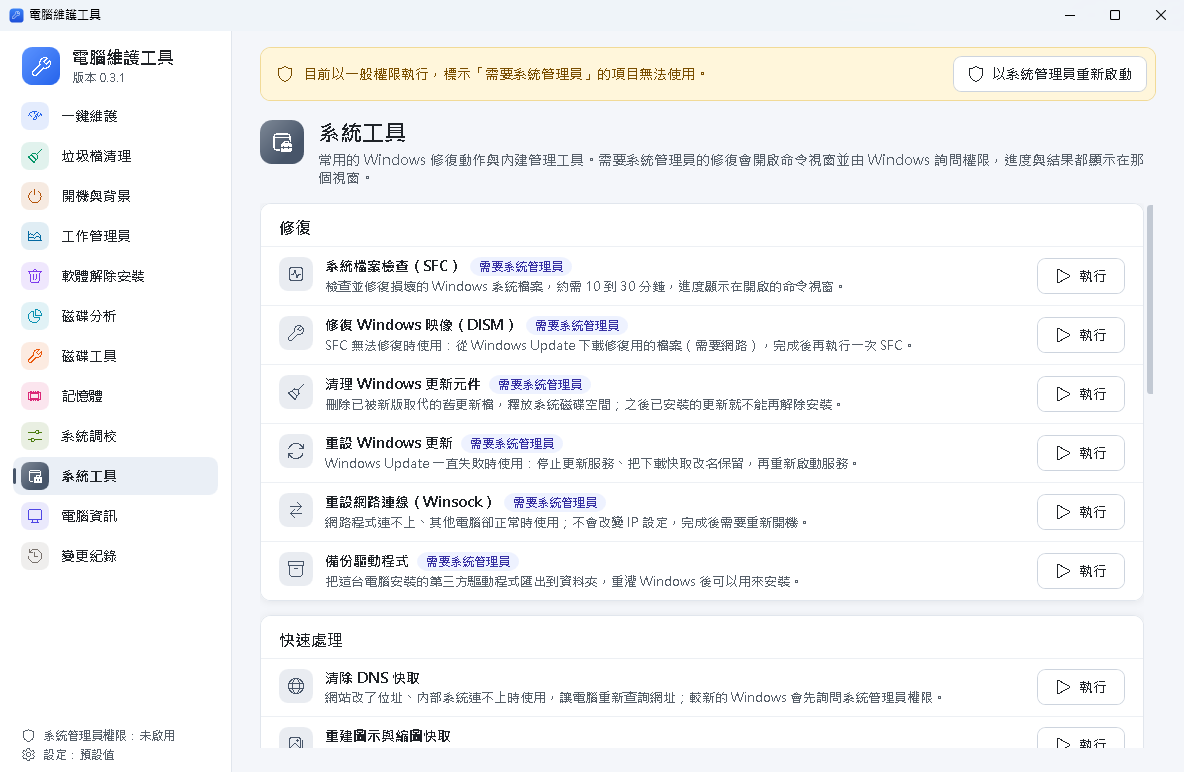
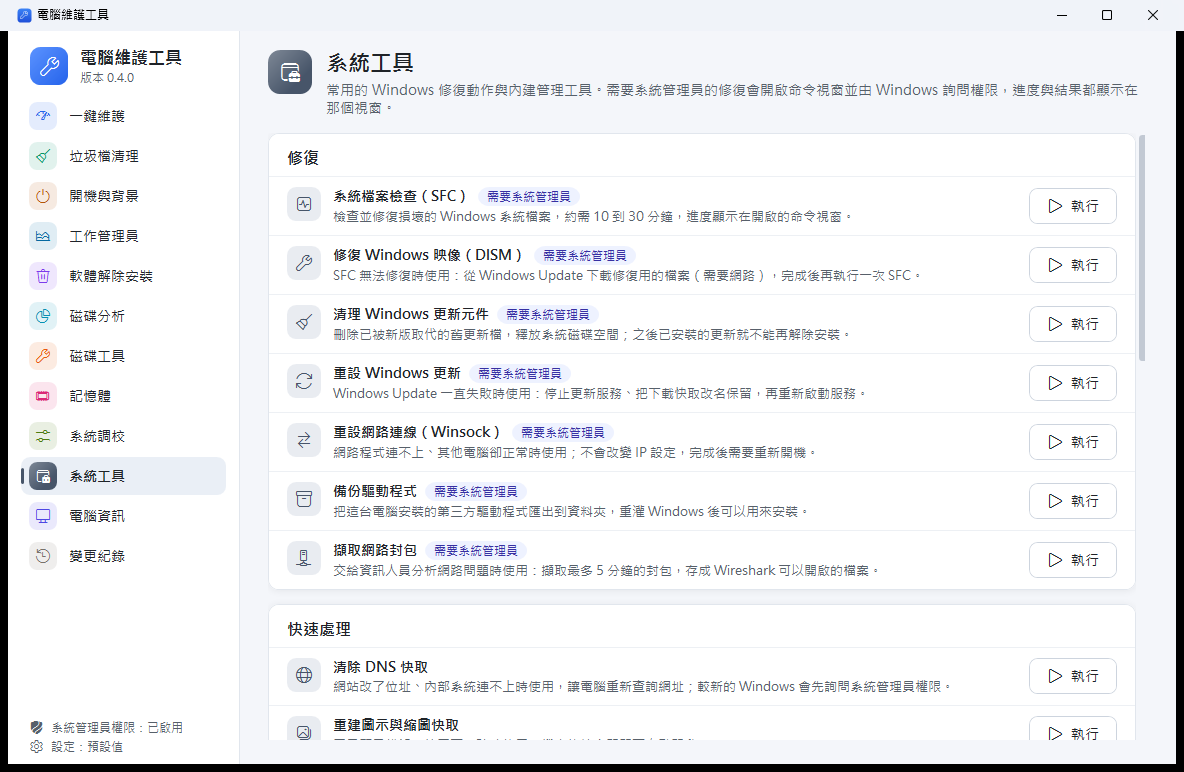
Document the network features and release 0.4.0
The README and the manual describe the network tab (connections, host
name lookup, the suspicious address list, program traffic and local
devices), the packet capture tool and --export-connections, with new
screenshots taken in Windows Sandbox so they show no real addresses.
The README credits Sniffnet, whose features the network tab was planned
after; none of its code or data is used.

diff --git a/docs/manual/make_manual.py b/docs/manual/make_manual.py
@@ -16,8 +16,8 @@ from docx.oxml import OxmlElement, parse_xml
 from docx.oxml.ns import nsdecls, qn
 from docx.shared import Cm, Pt, RGBColor
 
-VERSION = "0.3.1"
-RELEASE_MONTH = "2026 年 10 月"
+VERSION = "0.4.0"
+RELEASE_MONTH = "2026 年 11 月"
 IMAGES = Path(__file__).resolve().parent / "images"
 CJK_FONT = "Microsoft JhengHei"
 LATIN_FONT = "Segoe UI"
@@ -217,18 +217,18 @@ def introduction(doc):
     heading(doc, "1　這個工具能做什麼", 1)
     para(doc, "電腦維護工具是公司電腦用的 Windows 維護程式，取代 Glary Utilities 中常用的功能（包含一鍵維護），"
               "並整合 Windows 工作管理員的常用功能，以及 Wintoys 一類工具的系統調校與修復功能。"
-              "程式不含廣告、不連上網路、不收集任何使用資料。")
+              "程式不含廣告、不收集任何使用資料，也不會自己連上網路（只有在工作管理員的網路頁按「查詢主機名稱」時，會向電腦設定的 DNS 伺服器查詢）。")
     table(doc, ["功能", "用途"], [
         ["一鍵維護", "一次檢查暫存檔、無效捷徑、無效的解除安裝項目、使用痕跡、開機程式、磁碟、防毒與重新開機狀態，確認清單後一鍵處理"],
         ["垃圾檔清理", "清掉暫存檔、瀏覽器快取、當機傾印檔與錯誤報告等可重建的檔案；可設定定期自動清理"],
         ["開機與背景", "停用不需要隨開機執行的程式、排程工作與服務；服務也可以立即啟動或停止"],
-        ["工作管理員", "查看執行中的程式與 CPU、記憶體、磁碟、網路、顯示卡的即時效能；結束沒有回應的程式"],
+        ["工作管理員", "查看執行中的程式與 CPU、記憶體、磁碟、網路、顯示卡的即時效能；結束沒有回應的程式；查看哪個程式連到哪裡、各程式用了多少網路流量，以及區域網路上的裝置"],
         ["軟體解除安裝", "執行程式本身的解除安裝程式，並清掉留下的資料夾與登錄機碼；也可以移除 Windows 內建與商店 App"],
         ["磁碟分析", "找出佔用空間的資料夾、檔案類型、大檔案、內容完全相同的重複檔與空資料夾"],
         ["磁碟工具", "查看磁碟健康狀態，檢查磁碟錯誤、最佳化磁碟、排定開機時修復"],
         ["記憶體", "查看記憶體用量與最占記憶體的程式，釋放記憶體、排定記憶體檢測"],
         ["系統調校", "常用的 Windows 效能、檔案總管與隱私設定開關，以及電源計畫"],
-        ["系統工具", "系統檔案檢查、修復 Windows 映像、重設 Windows 更新與網路、備份驅動程式、清除 DNS 快取等修復，以及 Windows 內建管理工具"],
+        ["系統工具", "系統檔案檢查、修復 Windows 映像、重設 Windows 更新與網路、備份驅動程式、擷取網路封包、清除 DNS 快取等修復，以及 Windows 內建管理工具"],
         ["電腦資訊", "Windows 版本與硬體配備，可以複製或匯出"],
         ["變更紀錄", "以上做過的系統變更都會記錄，可以還原"],
     ], [3.2, 13.3])
@@ -242,6 +242,8 @@ def introduction(doc):
         "Microsoft Store、語言套件、開始功能表等 Windows 必要的元件不會出現在 App 清單中。",
         "平常以一般權限執行。需要系統管理員的項目會標示出來，按畫面上方的「以系統管理員重新啟動」才會使用；"
         "「系統工具」中的修復則由 Windows 另外詢問權限。",
+        "網路頁只讀取 Windows 現有的連線資料，不掃描區域網路；各程式流量只計算位元組數，不讀取內容；"
+        "「擷取網路封包」會留下封包內容，開始前會提醒並確認。",
     ])
 
 
@@ -289,6 +291,7 @@ def installation(doc):
         ["allowServiceChanges", "true", "是否允許變更服務的啟動類型與啟動、停止"],
         ["duplicateMinSizeMB", "1", "搜尋重複檔時預設的最小檔案大小（MB）"],
         ["autoCleanIntervalDays", "7", "自動清理的最短間隔天數；0 表示每次登入都清理"],
+        ["suspiciousAddressList", "\"\"", "可疑 IP 清單檔案的路徑（說明見 4.4）；相對路徑以 C:\\ProgramData\\PcMaintenance 為準，空白表示不使用"],
     ], [4.5, 1.6, 10.4])
     heading(doc, "2.4　更新到新版本", 2)
     table(doc, ["項目", "說明"], [
@@ -302,6 +305,12 @@ def installation(doc):
     ], [3, 13.5])
     heading(doc, "2.5　版本更新內容", 2)
     bullets(doc, [
+        "0.4.0：工作管理員新增「網路」分頁（功能規劃參考開源網路監看工具 Sniffnet，程式為獨立撰寫）："
+        "每條連線是哪個程式開的、連到網際網路或區域網路、用途（依連接埠判斷）、哪些連接埠對外開放；"
+        "可查詢主機名稱、比對公司的可疑 IP 清單、匯出 CSV；各程式的即時上傳下載速度與累計流量（需要系統管理員）；"
+        "區域網路上最近通訊過的裝置。系統工具新增「擷取網路封包」，存成 Wireshark 可以開啟的檔案。"
+        "命令列新增 --export-connections，公司設定檔新增 suspiciousAddressList。"
+        "修正：以系統管理員執行時，「磁碟工具」出現「發生未預期的錯誤」而無法列出磁碟。",
         "0.3.1：一鍵維護執行時跳出進度小視窗，顯示正在做哪一項、實際讀取或處理了多少，並有小動畫；"
         "建立還原點等待 Windows 詢問權限時，畫面不再停住；系統還原需要的服務被停用時，會直接說明原因。"
         "「重設 Windows 更新」不再停止 Cryptographic Services（它會連帶停止應用程式控管服務，並停在 Y/N 確認），"
@@ -417,6 +426,32 @@ def features(doc):
         ["網路", "傳送與接收速度、介面卡名稱、連線類型、連結速度、IP 位址、實體位址"],
         ["GPU", "使用率、專用與共用 GPU 記憶體、驅動程式版本與日期"],
     ], [2.5, 14])
+    para(doc, "網路分頁列出這台電腦目前的網路連線，上方可以切換「連線」「程式流量」「區域網路裝置」三種檢視，每 2 秒更新。")
+    figure(doc, "17-工作管理員-網路連線.png", "工作管理員：網路連線（已按「查詢主機名稱」，位址下方顯示主機名稱）")
+    table(doc, ["欄位", "說明"], [
+        ["程式", "開啟這條連線的程式，名稱與 Windows 工作管理員顯示的相同"],
+        ["位址", "連到的 IP 位址與連接埠；接聽中的連線顯示自己開放的連接埠。按「查詢主機名稱」後，下方顯示主機名稱"],
+        ["服務", "依連接埠判斷的用途，例如「加密網頁」「遠端桌面」「檔案與印表機分享」；無法判斷時顯示「—」"],
+        ["範圍", "網際網路、區域網路或本機；接聽中的連線顯示「對外開放」（其他電腦可以連進來）或「只限本機」"],
+        ["狀態", "已連線、接聽中、連線中、等待逾時等；UDP 沒有連線狀態，一律顯示接聽中"],
+    ], [2.5, 14])
+    steps(doc, [
+        "上方篩選可以只看網際網路、區域網路或接聽中的連線；搜尋框可以輸入程式名稱、位址或連接埠、服務、主機名稱。",
+        "按「查詢主機名稱」會向電腦設定的 DNS 伺服器查詢畫面上的位址（例如查出是某個 microsoft.com 的主機），只在按下時查詢一次。",
+        "選取一列後，下方顯示完整的本機與遠端位址；按「開啟檔案位置」可以在檔案總管找到開這條連線的程式。",
+        "按「匯出清單」存成 CSV（已查詢的主機名稱也會一起匯出）。",
+    ])
+    note(doc, "預設不列出電腦內部（127.0.0.1）的連線與剛結束、正在等待逾時的連線，勾選清單上方的「顯示本機內部與已結束的連線」才會列出。"
+              "不認識的連線多半是 Windows 更新、防毒軟體或瀏覽器的正常連線，可以先看程式與主機名稱再判斷。")
+    para(doc, "程式流量：列出開啟這個畫面之後，每個程式的下載、上傳速度與累計流量。上方圖表是最近 2 分鐘的全部程式，選取一列後改為顯示該程式。"
+              "需要系統管理員權限；只在這個畫面開著時統計，離開畫面就停止，也不含電腦內部的通訊。")
+    figure(doc, "18-工作管理員-程式流量.png", "工作管理員：程式流量（圖中 PowerShell 剛下載完兩個檔案）")
+    para(doc, "區域網路裝置：列出最近和這台電腦通訊過的裝置（IP 位址、實體位址、網路卡），預設閘道（通常是路由器）會標示出來。"
+              "這是 Windows 自己記住的鄰居清單，程式不會掃描網段，所以沒有和這台電腦通訊過的裝置不會出現。同樣可以查詢主機名稱與匯出清單。")
+    note(doc, "在公司設定檔的 suspiciousAddressList 指定一個文字檔，每行一個 IP 位址或網段"
+              "（例如 203.0.113.7、198.51.100.0/24），# 之後是註解。設定後網路頁多一個「可疑連線」篩選，"
+              "連到清單內位址的連線以紅底標示，選取時下方顯示警告；匯出的 CSV 也有「可疑 IP」欄。程式不會自動下載或更新這份清單。",
+         title="可疑 IP 清單（資訊人員）")
 
     heading(doc, "4.5　軟體解除安裝", 2)
     figure(doc, "06-軟體解除安裝.png", "軟體解除安裝（圖中以「Microsoft」搜尋）")
@@ -495,7 +530,7 @@ def features(doc):
     heading(doc, "4.10　系統工具", 2)
     figure(doc, "14-系統工具.png", "系統工具：修復、快速處理、還原點與 Windows 內建工具")
     table(doc, ["分類", "項目"], [
-        ["修復（需要系統管理員）", "系統檔案檢查（SFC）、修復 Windows 映像（DISM）、清理 Windows 更新元件、重設 Windows 更新、重設網路連線（Winsock）、備份驅動程式"],
+        ["修復（需要系統管理員）", "系統檔案檢查（SFC）、修復 Windows 映像（DISM）、清理 Windows 更新元件、重設 Windows 更新、重設網路連線（Winsock）、備份驅動程式、擷取網路封包"],
         ["快速處理", "清除 DNS 快取、重建圖示與縮圖快取、重新啟動檔案總管、重新啟動顯示卡驅動程式、重設 Microsoft Store"],
         ["還原點", "建立還原點、系統還原、系統保護設定"],
         ["Windows 內建工具", "裝置管理員、服務、工作排程器、事件檢視器、資源監視器、可靠性監視器、磁碟管理、Windows 防火牆等捷徑；這台電腦沒有的工具不會顯示"],
@@ -506,6 +541,9 @@ def features(doc):
         "「重設 Windows 更新」會停止更新服務，把下載快取資料夾改名保留（名稱後加上日期時間），不會刪除；「重設網路連線」完成後需要重新開機。",
         "會關閉視窗或畫面會閃的項目（重建圖示快取、重新啟動檔案總管、重新啟動顯示卡驅動程式等）執行前都會先確認。",
         "較新的 Windows 只允許系統管理員清除 DNS 快取，按下後若 Windows 詢問權限，按「是」即可。",
+        "「擷取網路封包」是網路問題要交給資訊人員或廠商分析時使用：確認後開啟命令視窗，以 Windows 內建的封包監視器擷取所有網路卡的封包，"
+        "最多 5 分鐘（在命令視窗按任意鍵可以提早結束），存到「文件\\網路封包擷取」的 .pcapng 檔並在檔案總管選取，可以用 Wireshark 開啟。"
+        "擷取檔包含這段時間所有進出這台電腦的網路內容，請只交給需要分析的人員，用完刪除。需要 Windows 10 2004 以上，較舊的版本不會顯示這一項。",
     ])
 
     heading(doc, "4.11　電腦資訊", 2)
@@ -536,6 +574,7 @@ def command_line(doc):
         ["--export-software <檔案或資料夾>", "匯出軟體清單 CSV"],
         ["--export-startup <檔案或資料夾>", "匯出開機與背景項目 CSV"],
         ["--export-system <檔案或資料夾>", "匯出電腦配備與系統版本 CSV（一台一列）"],
+        ["--export-connections <檔案或資料夾>", "匯出目前的網路連線 CSV（程式、位址、狀態、用途、範圍、可疑 IP；不查詢主機名稱）"],
         ["--restore-point", "建立系統還原點（需要以系統管理員執行）"],
     ], [5.5, 11])
     para(doc, "給資料夾時，檔名會自動帶電腦名稱與日期。結束代碼：0 成功（含未到時間而略過）、1 執行失敗、2 參數錯誤；"
@@ -562,11 +601,16 @@ def faq(doc):
         ("系統調校的開關切換後想改回來？", "再切一次開關即可；或到「變更紀錄」選取那一筆，按「還原選取的變更」，會恢復成切換前的設定。"),
         ("按「清除 DNS 快取」時 Windows 詢問權限？", "較新的 Windows 只允許系統管理員清除 DNS 快取，按「是」即可；按「否」則不會清除。"),
         ("解除安裝後還看得到這個程式？", "有些解除安裝程式會在背景繼續執行，完成後按「重新檢查」。"),
-        ("這個工具會連上網路或回傳資料嗎？", "不會。程式沒有任何連網功能，也不收集使用資料。"
+        ("這個工具會連上網路或回傳資料嗎？", "不會回傳任何資料，也不收集使用資料。程式唯一會用到網路的是工作管理員網路頁的「查詢主機名稱」："
+                                    "按下時才向電腦設定的 DNS 伺服器查詢畫面上的位址。"
                                     "（「修復 Windows 映像」是由 Windows 自己連到 Windows Update 下載修復檔；"
                                     "精簡版安裝檔在電腦沒有 .NET 10 時，安裝過程會從 Microsoft 下載執行環境。）"),
         ("精簡版安裝時顯示「無法從 Microsoft 下載 .NET 10 桌面執行環境」？", "這台電腦連不到 Microsoft 的下載站（builds.dotnet.microsoft.com）。"
                                     "確認網路或 Proxy 後再執行一次；不能連外的電腦請改用完整版安裝檔。沒有裝上任何東西，不需要清理。"),
+        ("網路頁的「程式流量」說需要系統管理員權限？", "Windows 只讓系統管理員查看各程式的流量。按畫面上方的「以系統管理員重新啟動」，"
+                                    "Windows 詢問權限時按「是」。連線與區域網路裝置不需要系統管理員。"),
+        ("網路連線裡有不認識的程式或位址？", "先看「程式」欄與「服務」欄，再按「查詢主機名稱」看連到哪個網域；多數是 Windows 更新、防毒與瀏覽器的正常連線。"
+                                  "仍有疑慮時，用「匯出清單」或系統工具的「擷取網路封包」把資料交給資訊人員分析。"),
         ("磁碟檢查發現問題怎麼辦？", "先備份重要資料，再按「排定開機時修復」並重新開機。健康狀態顯示警告或不良時，請安排更換磁碟。"),
         ("圖示的動畫可以關掉嗎？", "可以。本工具跟隨 Windows 的動畫設定：Windows 11 在「設定 → 協助工具 → 視覺效果」關閉「動畫效果」；"
                               "Windows 10 在「設定 → 輕鬆存取 → 顯示」關閉「在 Windows 中顯示動畫」。關閉後圖示與換頁不再播放動畫，進度條仍會移動以表示正在處理。"),
